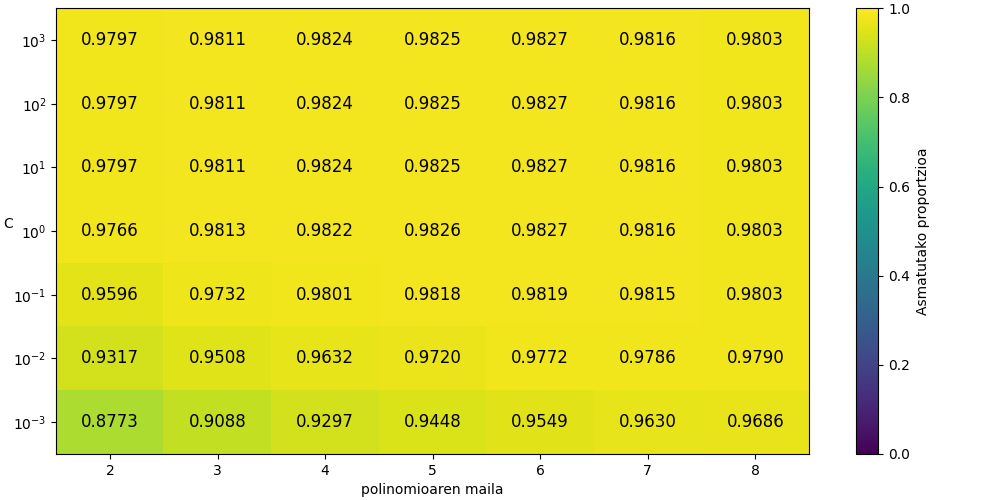
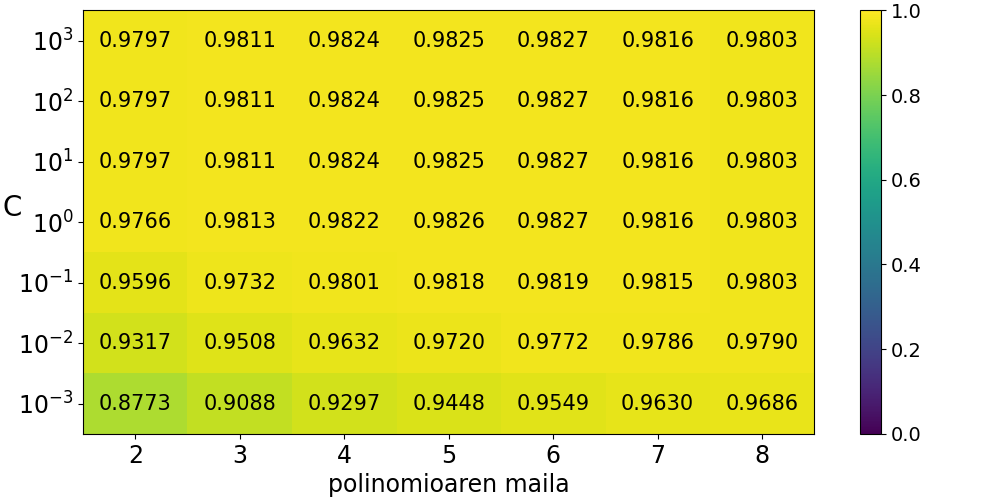
irudiak hobetu eta modeloen confusion matrix egiten hasi

diff --git a/Modelo_hoberena_aukeratzen/Nire_modeloak.py b/Modelo_hoberena_aukeratzen/Nire_modeloak.py
@@ -88,17 +88,18 @@ print(f"INFORMAZIOA KARGATUTA: \n\n Noten matrizea kernel gaussiarra = \n{Notak_
 matrizea = np.flip(Notak_matrizea_Nire_rbf,0)
 plt.figure(figsize=(10, 5))
 plt.imshow(matrizea, aspect="auto")
-plt.xticks(np.arange(0, 7, 1), [r'$10^{{{}}}$'.format(j) for j in [-3,-2,-1,0,1,2,3]])
-plt.xlabel(r"$\sigma$")
-plt.yticks(np.arange(0, 7, 1), [r'$10^{{{}}}$'.format(j) for j in [3,2,1,0,-1,-2,-3]])
-plt.ylabel(r"$\lambda$", rotation = 0)
+plt.xticks(np.arange(0, 7, 1), [r'$10^{{{}}}$'.format(j) for j in [-3,-2,-1,0,1,2,3]], fontsize = 17)
+plt.xlabel(r"$\sigma$", fontsize = 20)
+plt.yticks(np.arange(0, 7, 1), [r'$10^{{{}}}$'.format(j) for j in [3,2,1,0,-1,-2,-3]], fontsize = 17)
+plt.ylabel(r"$\lambda$", rotation = 0, fontsize = 20)
 # plt.title("Nire modelo desberdinen asmatze proportzioa baliozta-multzoan:\nKernel gaussiarra 1000 iteraziorekin klase bakoitzerako")
-plt.colorbar(label='Asmatutako proportzioa')
+cbar = plt.colorbar()
+cbar.ax.tick_params(labelsize=14) 
 plt.clim(0,1)
 plt.tight_layout(pad = 0.2)
 for i in range(matrizea.shape[0]):
     for j in range(matrizea.shape[1]):
-        plt.text(j, i, '{:.4f}'.format(matrizea[i, j]), ha='center', va='center', color='white' if matrizea[i, j] < 0.5 else "black", fontsize = 12)
+        plt.text(j, i, '{:.4f}'.format(matrizea[i, j]), ha='center', va='center', color='white' if matrizea[i, j] < 0.5 else "black", fontsize = 15)
 plt.show()
 
 
@@ -106,12 +107,13 @@ plt.show()
 matrizea = np.flip(Notak_matrizea_Nire_rbf_handitua,0)
 plt.figure(figsize=(5, 7))
 plt.imshow(matrizea, aspect="auto")
-plt.xticks(np.arange(0, 7, 1), [r'$10^{{{}}}$'.format(j) for j in [-3,-2,-1,0,1,2,3]])
-plt.xlabel(r"$\sigma$")
-plt.yticks(np.arange(0, 14, 1), [r'$10^{{{}}}$'.format(j) for j in [-10,-9,-8,-7,-6,-5,-4,-3,-2,-1,0,1,2,3][::-1]])
-plt.ylabel(r"$\lambda$", rotation = 0)
+plt.xticks(np.arange(0, 7, 1), [r'$10^{{{}}}$'.format(j) for j in [-3,-2,-1,0,1,2,3]], fontsize = 14)
+plt.xlabel(r"$\sigma$", fontsize = 15)
+plt.yticks(np.arange(0, 14, 1), [r'$10^{{{}}}$'.format(j) for j in [-10,-9,-8,-7,-6,-5,-4,-3,-2,-1,0,1,2,3][::-1]], fontsize = 14)
+plt.ylabel(r"$\lambda$", rotation = 0, fontsize = 15)
 # plt.title("Nire modelo desberdinen asmatze proportzioa baliozta-multzoan:\nKernel gaussiarra 1000 iteraziorekin klase bakoitzerako, bertsio handitua")
-plt.colorbar(label='Asmatutako proportzioa')
+cbar = plt.colorbar()
+cbar.ax.tick_params(labelsize=14) 
 plt.clim(0,1)
 # plt.tight_layout(pad = 0.2)
 # for i in range(matrizea.shape[0]):
@@ -124,17 +126,18 @@ plt.show()
 matrizea = np.flip(Notak_matrizea_Nire_rbf_handitua[0:7,:],0)
 plt.figure(figsize=(10, 5))
 plt.imshow(matrizea,aspect="auto")
-plt.xticks(np.arange(0, 7, 1), [r'$10^{{{}}}$'.format(j) for j in [-3,-2,-1,0,1,2,3]])
-plt.xlabel(r"$\sigma$")
-plt.yticks(np.arange(0, 7, 1), [r'$10^{{{}}}$'.format(j) for j in [-10,-9,-8,-7,-6,-5,-4][::-1]])
-plt.ylabel(r"$\lambda$", rotation = 0)
+plt.xticks(np.arange(0, 7, 1), [r'$10^{{{}}}$'.format(j) for j in [-3,-2,-1,0,1,2,3]], fontsize = 17)
+plt.xlabel(r"$\sigma$", fontsize = 20)
+plt.yticks(np.arange(0, 7, 1), [r'$10^{{{}}}$'.format(j) for j in [-10,-9,-8,-7,-6,-5,-4][::-1]], fontsize = 17)
+plt.ylabel(r"$\lambda$", rotation = 0, fontsize = 20)
 # plt.title("Nire modelo desberdinen asmatze proportzioa baliozta-multzoan:\nKernel gaussiarra 1000 iteraziorekin klase bakoitzerako, bigarren zatia")
-plt.colorbar(label='Asmatutako proportzioa')
+cbar = plt.colorbar()
+cbar.ax.tick_params(labelsize=14) 
 plt.clim(0,1)
 plt.tight_layout(pad = 0.2)
 for i in range(matrizea.shape[0]):
     for j in range(matrizea.shape[1]):
-        plt.text(j, i, '{:.3f}'.format(matrizea[i, j]), ha='center', va='center', color='white' if matrizea[i, j] < 0.5 else "black", fontsize = 12)
+        plt.text(j, i, '{:.3f}'.format(matrizea[i, j]), ha='center', va='center', color='white' if matrizea[i, j] < 0.5 else "black", fontsize = 15)
 plt.show()
 
 
@@ -142,17 +145,18 @@ plt.show()
 matrizea = np.flip(Notak_matrizea_Nire_poly,0)
 plt.figure(figsize=(10, 5))
 plt.imshow(matrizea, aspect= "auto")
-plt.xticks(np.arange(0, 7, 1), [2,3,4,5,6,7,8])
-plt.xlabel("polinomioaren maila")
-plt.yticks(np.arange(0, 7, 1), [r'$10^{{{}}}$'.format(j) for j in [-3,-2,-1,0,1,2,3][::-1]])
-plt.ylabel(r"$\lambda$", rotation = 0)
+plt.xticks(np.arange(0, 7, 1), [2,3,4,5,6,7,8], fontsize = 17)
+plt.xlabel("polinomioaren maila", fontsize = 17)
+plt.yticks(np.arange(0, 7, 1), [r'$10^{{{}}}$'.format(j) for j in [-3,-2,-1,0,1,2,3][::-1]], fontsize = 17)
+plt.ylabel(r"$\lambda$", rotation = 0, fontsize = 20)
 # plt.title("Nire modelo desberdinen asmatze proportzioa baliozta-multzoan:\nKernel polinomiala 1000 iteraziorekin klase bakoitzerako")
-plt.colorbar(label='Asmatutako proportzioa')
+cbar = plt.colorbar()
+cbar.ax.tick_params(labelsize=14) 
 plt.clim(0,1)
 plt.tight_layout(pad = 0.2)
 for i in range(matrizea.shape[0]):
     for j in range(matrizea.shape[1]):
-        plt.text(j, i, '{:.4f}'.format(matrizea[i, j]), ha='center', va='center', color='white' if matrizea[i, j] < 0.5 else "black", fontsize = 12)
+        plt.text(j, i, '{:.4f}'.format(matrizea[i, j]), ha='center', va='center', color='white' if matrizea[i, j] < 0.5 else "black", fontsize = 15)
 plt.show()
 
 

diff --git a/Modelo_hoberena_sortzen/Modeloen_informazioa_adierazi.py b/Modelo_hoberena_sortzen/Modeloen_informazioa_adierazi.py
@@ -1,5 +1,6 @@
 import sys
 import os
+import matplotlib.pyplot as plt
 
 oraingo_bidea = os.path.dirname(os.path.realpath(__file__))
 bide_orokorra = os.path.dirname(oraingo_bidea)
@@ -47,9 +48,26 @@ print(f"Behar izan duen denbora: {Nire_gauss_info[0]}")
 print(f"Lortu duen asmatze-proportzioa: {Nire_gauss_info[1]}")
 print()
 
-# Conffusion Matrix egin:
+# # Conffusion Matrix egin:
 
+# Nire_gauss_test_predikzioak = Nire_gauss.predict_anitzkoitza(X_test.values())
 
+# # Gaizki egindako predikzioak bisualizatu:
+digitu_kopurua = 10
+fig, axs = plt.subplots(2,5, figsize = (12,6))
+k = 0
+for i in range(2):
+    for j in range(5):
+        while Nire_gauss.predict(X_test.iloc[k,:]) != Y_test.iloc[i]:
+            k += 1
+        adib = np.array(X_test.iloc[k, :])
+        adib = np.reshape(adib, (28,28))
+        axs[i,j].imshow(adib, cmap = "gray_r")
+        axs[i,j].axis("off")
+        k += 1
+
+plt.tight_layout(pad = 0.2)
+plt.show()
 
 
 
@@ -74,39 +92,39 @@ print()
 
 
 
-# # ----------------------------------------------------------------------------
-# # --------------------SCIKIT MODELOA KERNEL GAUSSIARRA--------------------------
-# # ----------------------------------------------------------------------------
+# # # ----------------------------------------------------------------------------
+# # # --------------------SCIKIT MODELOA KERNEL GAUSSIARRA--------------------------
+# # # ----------------------------------------------------------------------------
 
-# # Modeloa inportatu
-Scikit_gauss = pickle.load(open(os.path.join(bide_orokorra,"Entrenatutako_modeloak","Scikit_modelo_hoberena_gauss.pkl"),"rb"))
-Scikit_gauss_info = pickle.load(open(os.path.join(bide_orokorra,"Entrenatutako_modeloak","Scikit_modelo_hoberena_gauss_info.pkl"),"rb"))
+# # # Modeloa inportatu
+# Scikit_gauss = pickle.load(open(os.path.join(bide_orokorra,"Entrenatutako_modeloak","Scikit_modelo_hoberena_gauss.pkl"),"rb"))
+# Scikit_gauss_info = pickle.load(open(os.path.join(bide_orokorra,"Entrenatutako_modeloak","Scikit_modelo_hoberena_gauss_info.pkl"),"rb"))
 
-# # Informazioa erakutsi:
-print("Nire modeloa, kernel gausiarra:")
-print(f"Behar izan duen denbora: {Scikit_gauss_info[0]}")
-print(f"Lortu duen asmatze-proportzioa: {Scikit_gauss_info[1]}")
-print()
+# # # Informazioa erakutsi:
+# print("Nire modeloa, kernel gausiarra:")
+# print(f"Behar izan duen denbora: {Scikit_gauss_info[0]}")
+# print(f"Lortu duen asmatze-proportzioa: {Scikit_gauss_info[1]}")
+# print()
 
-# Conffusion Matrix egin:
-
-
+# # Conffusion Matrix egin:
 
 
 
 
-# # ----------------------------------------------------------------------------
-# # --------------------SCIKIT MODELOA KERNEL POLINOMIALA-------------------------
-# # ----------------------------------------------------------------------------
 
-# # Modeloa inportatu
-Scikit_poly = pickle.load(open(os.path.join(bide_orokorra,"Entrenatutako_modeloak","Scikit_modelo_hoberena_poly.pkl"),"rb"))
-Scikit_poly_info = pickle.load(open(os.path.join(bide_orokorra,"Entrenatutako_modeloak","Scikit_modelo_hoberena_poly_info.pkl"),"rb"))
 
-# # Informazioa erakutsi:
+# # # ----------------------------------------------------------------------------
+# # # --------------------SCIKIT MODELOA KERNEL POLINOMIALA-------------------------
+# # # ----------------------------------------------------------------------------
 
-print("Nire modeloa, kernel polinomiala:")
-print(f"Behar izan duen denbora: {Scikit_poly_info[0]}")
-print(f"Lortu duen asmatze-proportzioa: {Scikit_poly_info[1]}")
-print()
+# # # Modeloa inportatu
+# Scikit_poly = pickle.load(open(os.path.join(bide_orokorra,"Entrenatutako_modeloak","Scikit_modelo_hoberena_poly.pkl"),"rb"))
+# Scikit_poly_info = pickle.load(open(os.path.join(bide_orokorra,"Entrenatutako_modeloak","Scikit_modelo_hoberena_poly_info.pkl"),"rb"))
+
+# # # Informazioa erakutsi:
+
+# print("Nire modeloa, kernel polinomiala:")
+# print(f"Behar izan duen denbora: {Scikit_poly_info[0]}")
+# print(f"Lortu duen asmatze-proportzioa: {Scikit_poly_info[1]}")
+# print()
 

diff --git a/Modelo_hoberena_aukeratzen/Scikit_modeloak.py b/Modelo_hoberena_aukeratzen/Scikit_modeloak.py
@@ -80,17 +80,18 @@ print(f"INFORMAZIOA KARGATUTA: \n\n Noten matrizea kernel gaussiarra = \n{Notak_
 matrizea = np.flip(Notak_matrizea_rbf,0)
 plt.figure(figsize=(10, 5))
 plt.imshow(matrizea, aspect= "auto")
-plt.xticks(np.arange(0, 7, 1), [r'$10^{{{}}}$'.format(j) for j in [-3,-2,-1,0,1,2,3]])
-plt.xlabel(r"$\gamma$")
-plt.yticks(np.arange(0, 7, 1), [r'$10^{{{}}}$'.format(j) for j in [-3,-2,-1,0,1,2,3][::-1]])
-plt.ylabel("C", rotation = 0)
+plt.xticks(np.arange(0, 7, 1), [r'$10^{{{}}}$'.format(j) for j in [-3,-2,-1,0,1,2,3]], fontsize = 17)
+plt.xlabel(r"$\gamma$", fontsize = 20)
+plt.yticks(np.arange(0, 7, 1), [r'$10^{{{}}}$'.format(j) for j in [-3,-2,-1,0,1,2,3][::-1]], fontsize = 17)
+plt.ylabel("C", rotation = 0, fontsize = 20)
 # plt.title("Modelo desberdinen asmatze proportzioa baliozta-multzoan:\nKernel gaussiarra")
-plt.colorbar(label='Asmatutako proportzioa')
+cbar = plt.colorbar()
+cbar.ax.tick_params(labelsize=14) 
 plt.clim(0,1)
 plt.tight_layout(pad = 0.2)
 for i in range(matrizea.shape[0]):
     for j in range(matrizea.shape[1]):
-        plt.text(j, i, '{:.4f}'.format(matrizea[i, j]), ha='center', va='center', color='white' if matrizea[i, j] < 0.5 else "black", fontsize = 12)
+        plt.text(j, i, '{:.4f}'.format(matrizea[i, j]), ha='center', va='center', color='white' if matrizea[i, j] < 0.5 else "black", fontsize = 15)
 plt.show()
 
 
@@ -98,17 +99,18 @@ plt.show()
 matrizea = np.flip(Notak_matrizea_poly,0)
 plt.figure(figsize = (10,5))
 plt.imshow(matrizea, aspect= "auto")
-plt.xticks(np.arange(0, 7, 1), [2,3,4,5,6,7,8])
-plt.xlabel("polinomioaren maila")
-plt.yticks(np.arange(0, 7, 1), [r'$10^{{{}}}$'.format(j) for j in [-3,-2,-1,0,1,2,3][::-1]])
-plt.ylabel("C", rotation = 0)
+plt.xticks(np.arange(0, 7, 1), [2,3,4,5,6,7,8], fontsize = 17)
+plt.xlabel("polinomioaren maila", fontsize = 17)
+plt.yticks(np.arange(0, 7, 1), [r'$10^{{{}}}$'.format(j) for j in [-3,-2,-1,0,1,2,3][::-1]], fontsize = 17)
+plt.ylabel("C", rotation = 0, fontsize = 20)
 # plt.title("Modelo desberdinen asmatze proportzioa baliozta-multzoan:\nKernel polinomiala")
-plt.colorbar(label='Asmatutako proportzioa')
+cbar = plt.colorbar()
+cbar.ax.tick_params(labelsize=14) 
 plt.clim(0,1)
 plt.tight_layout(pad = 0.2)
 for i in range(matrizea.shape[0]):
     for j in range(matrizea.shape[1]):
-        plt.text(j, i, '{:.4f}'.format(matrizea[i, j]), ha='center', va='center', color='white' if matrizea[i, j] < 0.5 else "black", fontsize = 12)
+        plt.text(j, i, '{:.4f}'.format(matrizea[i, j]), ha='center', va='center', color='white' if matrizea[i, j] < 0.5 else "black", fontsize = 15)
 plt.show()
 
 
